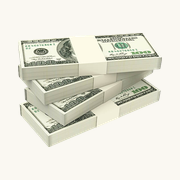
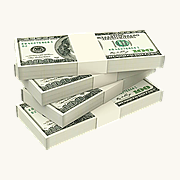
Header mark: sharper
Served at 4x with a light unsharp mask and marked unoptimized, so Next
no longer re-encodes it at quality 75. Favicon and apple icon get the
same sharpening.

Claude-Session: https://claude.ai/code/session_014Q442mCzVvvJQVm8ZYrRVD

diff --git a/components/site-header.tsx b/components/site-header.tsx
@@ -32,8 +32,11 @@ export default function SiteHeader() {
             screen reader announces for the link.
 
             The mark is the banded-stacks image (public/brand/banded-stacks.png,
-            shipped at 3x of its 22px render). `priority` so the sticky header
-            paints with the first frame rather than after an image fetch. */}
+            shipped at 4x of its 22px render with a light unsharp mask, and
+            `unoptimized` so Next does not re-encode it at quality 75 — the
+            optimizer pass is what made the mark look soft). `priority` so the
+            sticky header paints with the first frame rather than after an
+            image fetch. */}
         <Link
           href="/"
           aria-label="Buy Side — home"
@@ -42,9 +45,10 @@ export default function SiteHeader() {
           <Image
             src="/brand/banded-stacks.png"
             alt=""
-            width={83}
-            height={66}
+            width={111}
+            height={88}
             priority
+            unoptimized
             className="h-[22px] w-auto"
           />
         </Link>
